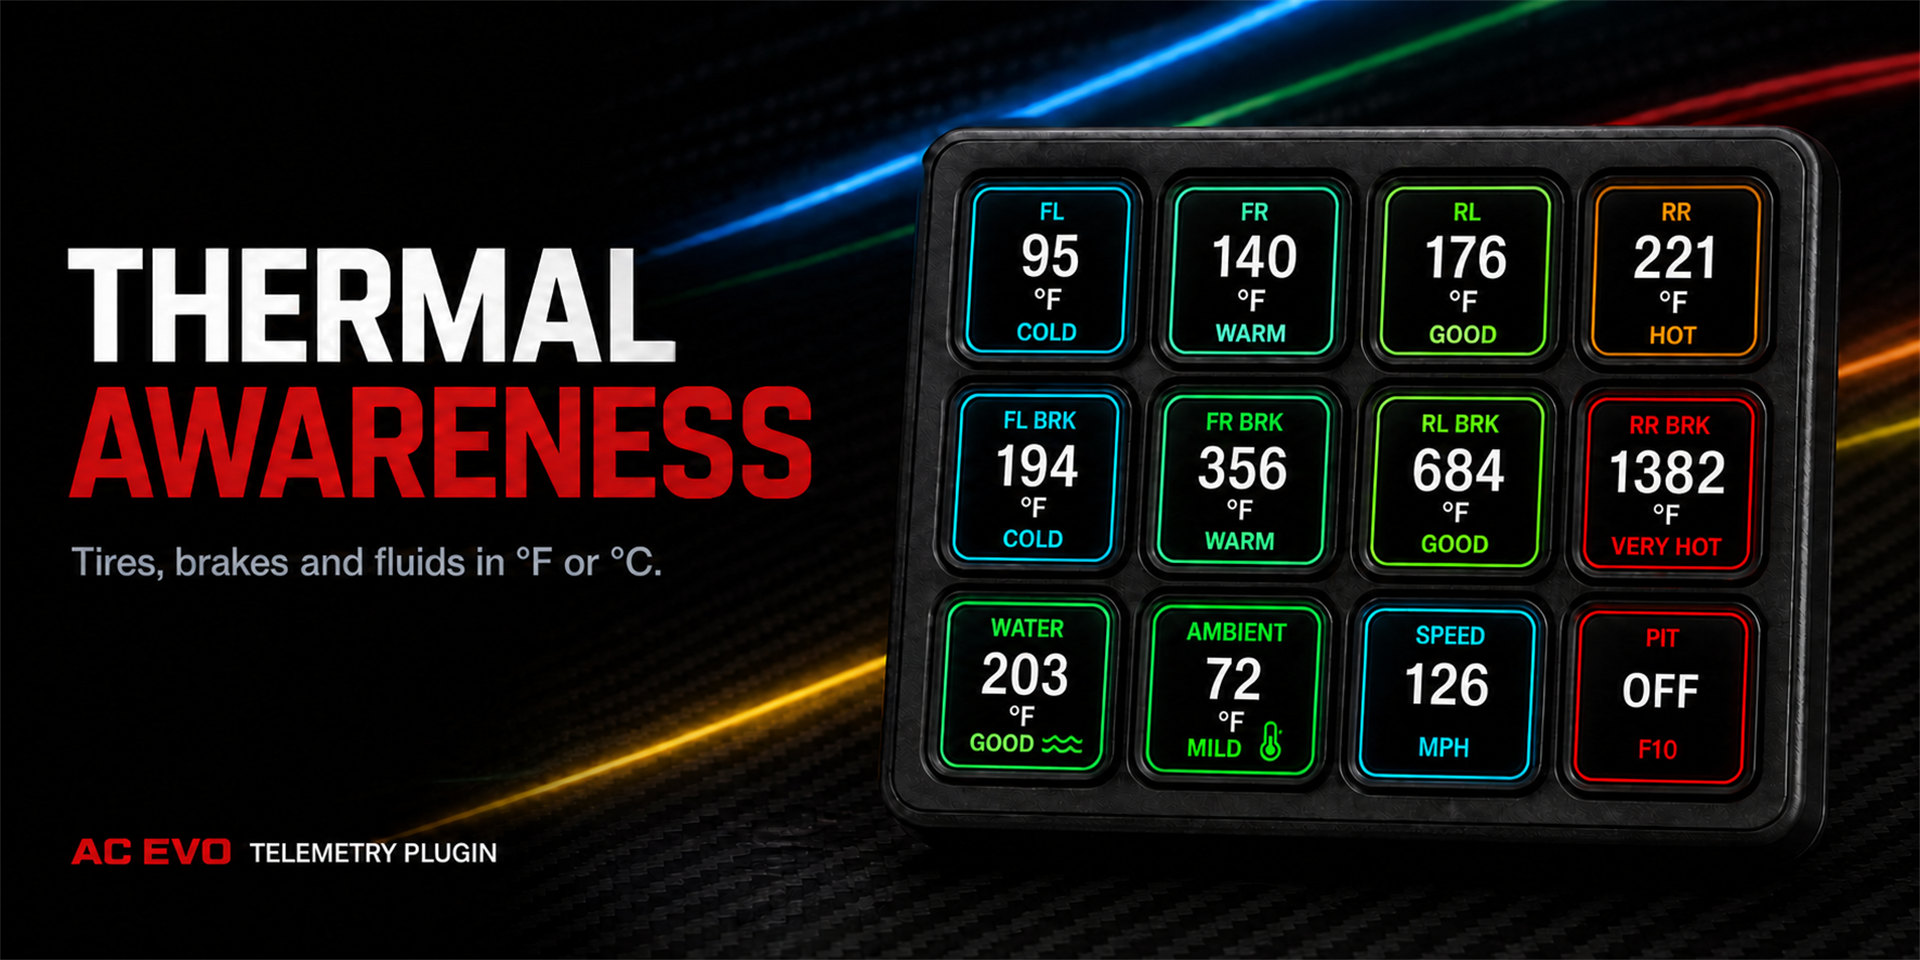
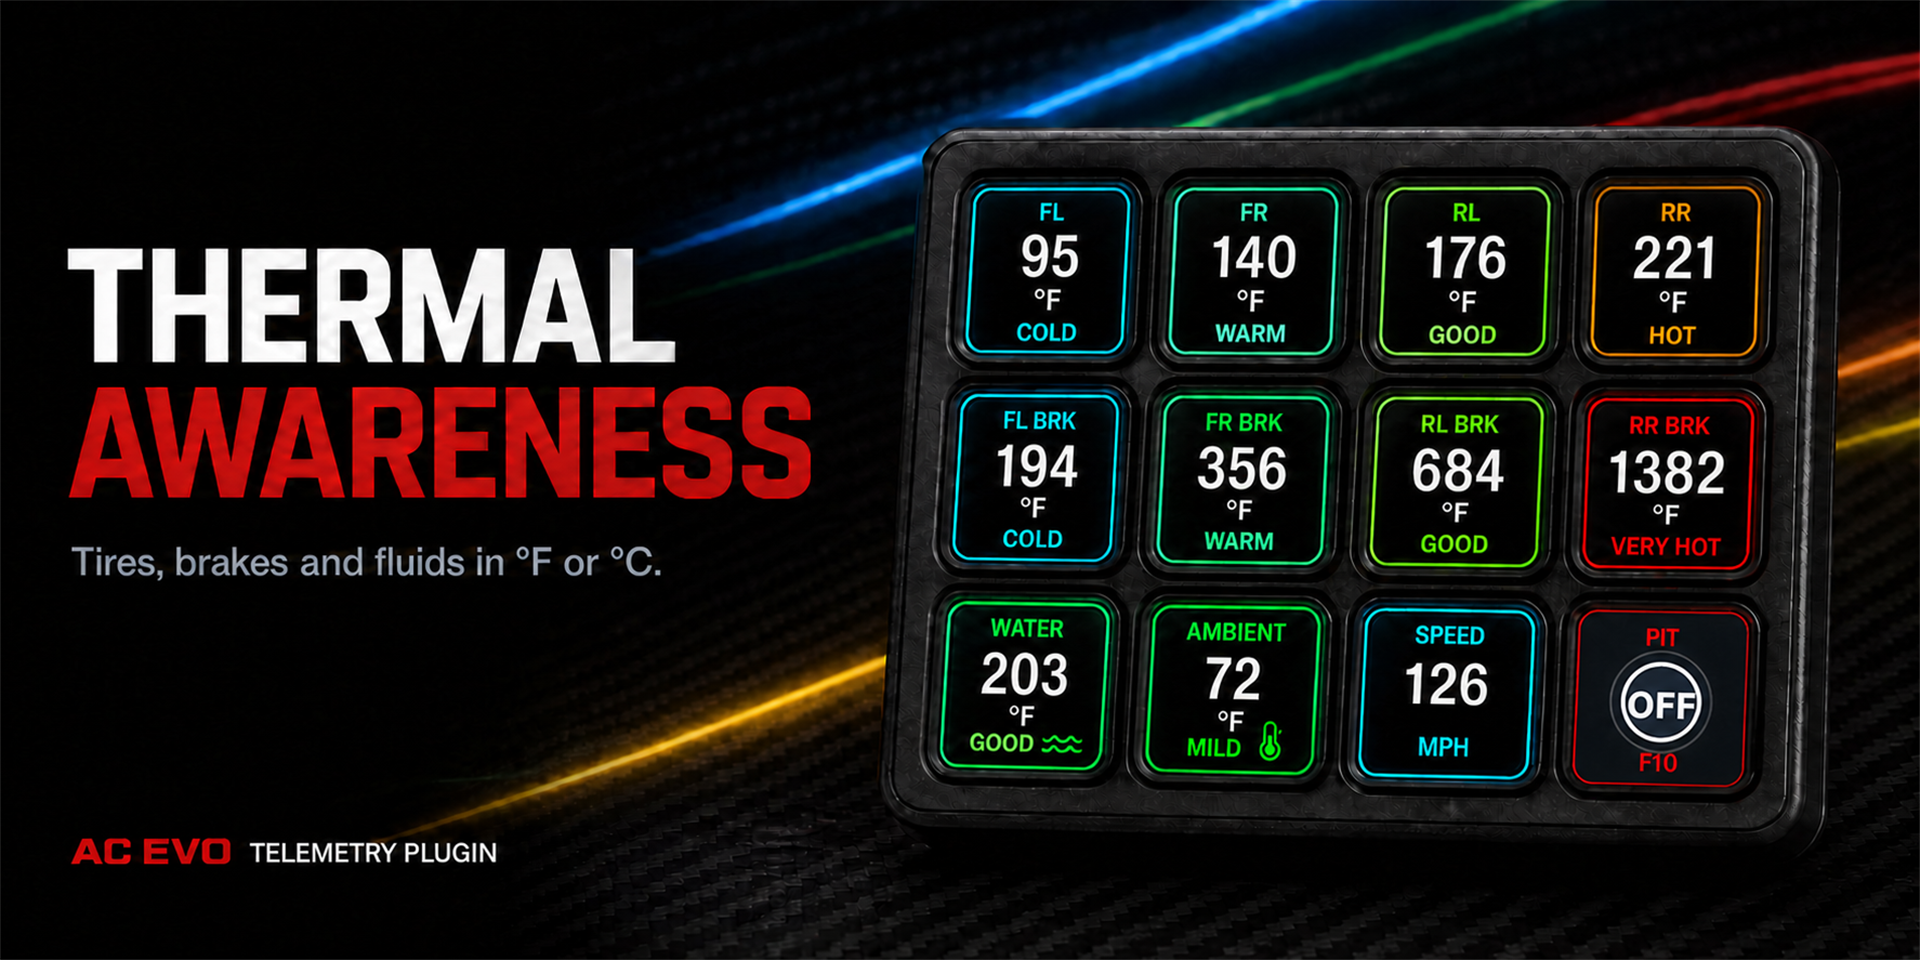
Align support visuals with current plugin

diff --git a/index.html b/index.html
@@ -948,7 +948,7 @@
 
     <header class="masthead" id="top">
       <h1 class="visually-hidden">AC EVO Telemetry Plugin Support</h1>
-      <img class="hero-art" src="assets/marketplace-thumbnail.png?v=20260817f" width="1920" height="960" alt="AC EVO Telemetry Plugin showing live telemetry, readable thermal states, and controls on a 4 by 3 programmable-key layout">
+      <img class="hero-art" src="assets/marketplace-thumbnail.png?v=20260817h" width="1920" height="960" alt="AC EVO Telemetry Plugin showing live telemetry, readable thermal states, grouped lights with indicator arrows, and controls on a 4 by 3 programmable-key layout">
       <div class="hero-support-band">
         <div class="wrap hero-support-inner">
           <p class="hero-support-copy"><strong>Support Center</strong>Setup, diagnostics, privacy, and issue reporting for the unofficial community plugin.</p>
@@ -1037,7 +1037,7 @@
 
         <div class="gallery-grid">
           <figure class="gallery-item">
-            <img src="assets/gallery-live-dashboard.png?v=20260817f" width="1920" height="960" alt="Live AC EVO race dashboard product render with timing, readable temperature states, position, headlamp state, and controls">
+            <img src="assets/gallery-live-dashboard.png?v=20260817h" width="1920" height="960" alt="Live AC EVO race dashboard product render with timing, readable temperature states, position, grouped lights and indicators, and controls">
             <figcaption>
               <span class="caption-index">VIEW 01</span>
               <b>Live race dashboard</b>
@@ -1045,7 +1045,7 @@
             </figcaption>
           </figure>
           <figure class="gallery-item">
-            <img src="assets/gallery-thermal.png?v=20260817f" width="1920" height="960" alt="Thermal awareness product render showing tire, brake, fluid, and ambient temperatures with readable thermal states in Fahrenheit">
+            <img src="assets/gallery-thermal.png?v=20260817h" width="1920" height="960" alt="Thermal awareness product render showing tire, brake, fluid, and ambient temperatures with readable thermal states in Fahrenheit and the current circular pit control">
             <figcaption>
               <span class="caption-index">VIEW 02</span>
               <b>Thermal awareness</b>
@@ -1053,7 +1053,7 @@
             </figcaption>
           </figure>
           <figure class="gallery-item">
-            <img src="assets/gallery-controls.png?v=20260817f" width="1920" height="960" alt="Live AC EVO controls and states product render with ignition, starter, pit limiter, headlamp, and indicators">
+            <img src="assets/gallery-controls.png?v=20260817h" width="1920" height="960" alt="Live AC EVO controls and states product render with ignition, blue starter hold, pit limiter, mapped headlights, and F6 and F7 indicators">
             <figcaption>
               <span class="caption-index">VIEW 03</span>
               <b>Controls + states</b>
@@ -1075,13 +1075,13 @@
             </figcaption>
           </figure>
           <figure class="setting-card">
-            <svg viewBox="32 470 510 300" role="img" aria-labelledby="lights-settings-title" preserveAspectRatio="xMidYMid meet">
-              <title id="lights-settings-title">Lights property inspector showing the light-cycle keyboard binding</title>
-              <image href="assets/lights-settings.png?v=20260817g" x="0" y="0" width="852" height="772"></image>
+            <svg viewBox="30 470 510 300" role="img" aria-labelledby="lights-settings-title" preserveAspectRatio="xMidYMid meet">
+              <title id="lights-settings-title">Grouped Lights property inspector with the current live key face and light-cycle binding</title>
+              <image href="assets/lights-settings-current.png?v=20260817i" x="0" y="0" width="852" height="772"></image>
             </svg>
             <figcaption>
-              <b>Lights</b>
-              <p>Cycle EVO light modes while live indicators keep blinking.</p>
+              <b>Grouped Lights</b>
+              <p>Headlamp mode and blinking indicators share one live key.</p>
             </figcaption>
           </figure>
           <figure class="setting-card">
@@ -1090,8 +1090,8 @@
               <image href="assets/control-settings.png?v=20260817g" x="0" y="0" width="852" height="772"></image>
             </svg>
             <figcaption>
-              <b>Control Button</b>
-              <p>Select a command and match its in-game key binding.</p>
+              <b>Headlights Control</b>
+              <p>A separate mapped button shows its binding and headlamp state.</p>
             </figcaption>
           </figure>
         </div>
@@ -1115,12 +1115,12 @@
           </div>
           <div class="action-row" style="--accent: var(--yellow)">
             <span class="action-name">Lights</span>
-            <p>Cycles the configured EVO light key with a headlamp face, reported mode, and blinking indicators.</p>
+            <p>Cycles the configured EVO light key and displays headlamp mode plus blinking left/right indicators together.</p>
             <span class="action-tag">Press</span>
           </div>
           <div class="action-row" style="--accent: var(--red)">
             <span class="action-name">Control Button</span>
-            <p>Ignition, starter, pit limiter, lights, and other practical controls with live state feedback where EVO exposes it.</p>
+            <p>Ignition, starter, pit limiter, mapped headlights, and other practical controls with live state feedback where EVO exposes it.</p>
             <span class="action-tag">Mapped</span>
           </div>
         </div>
